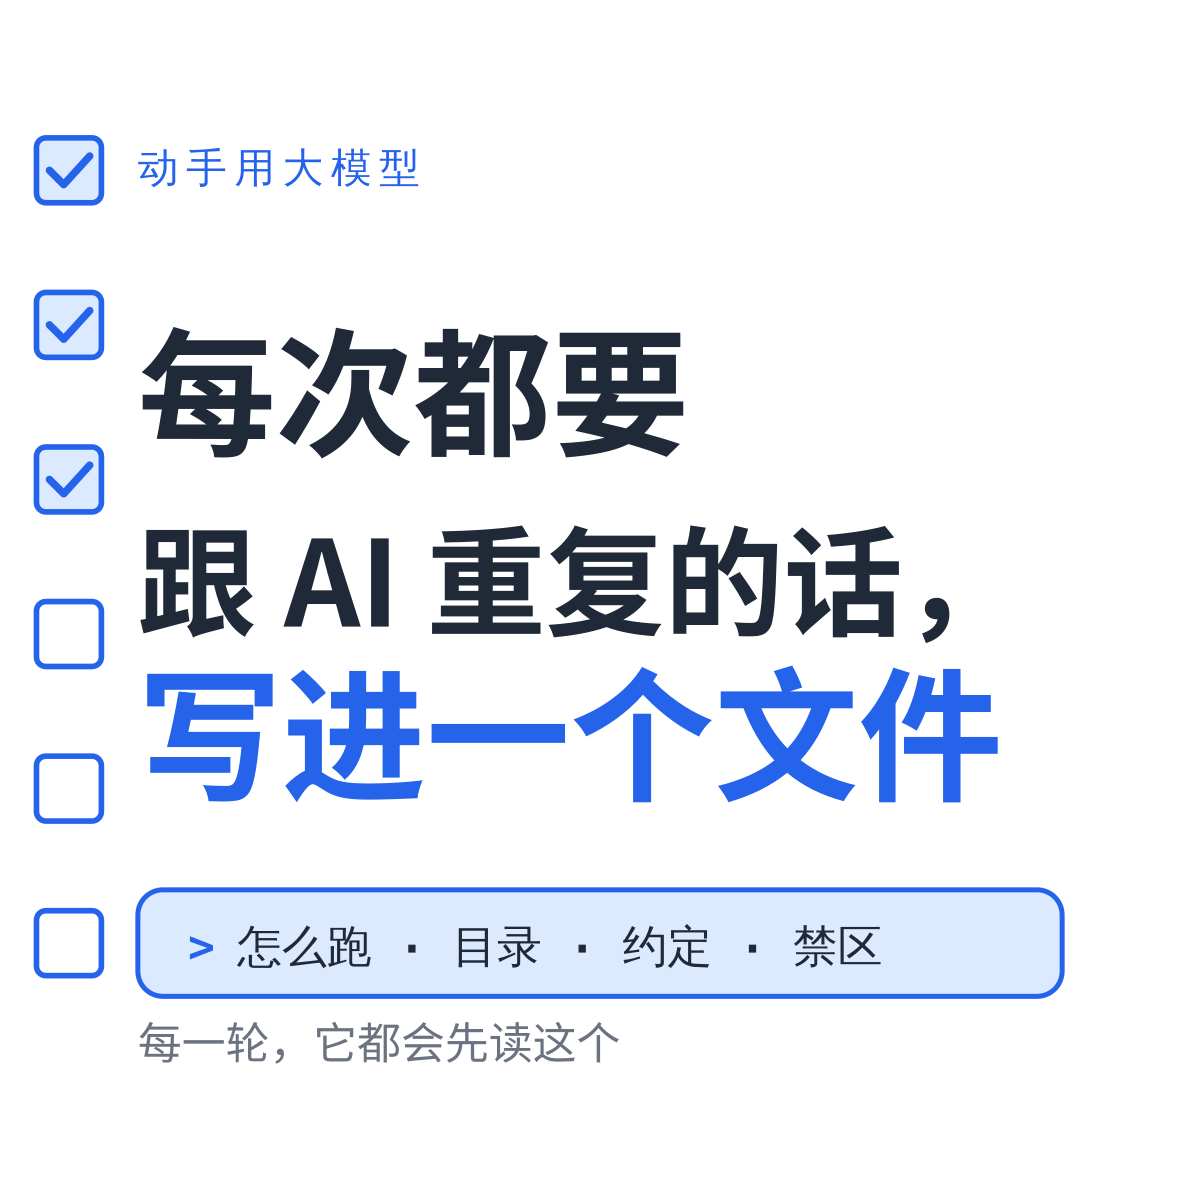
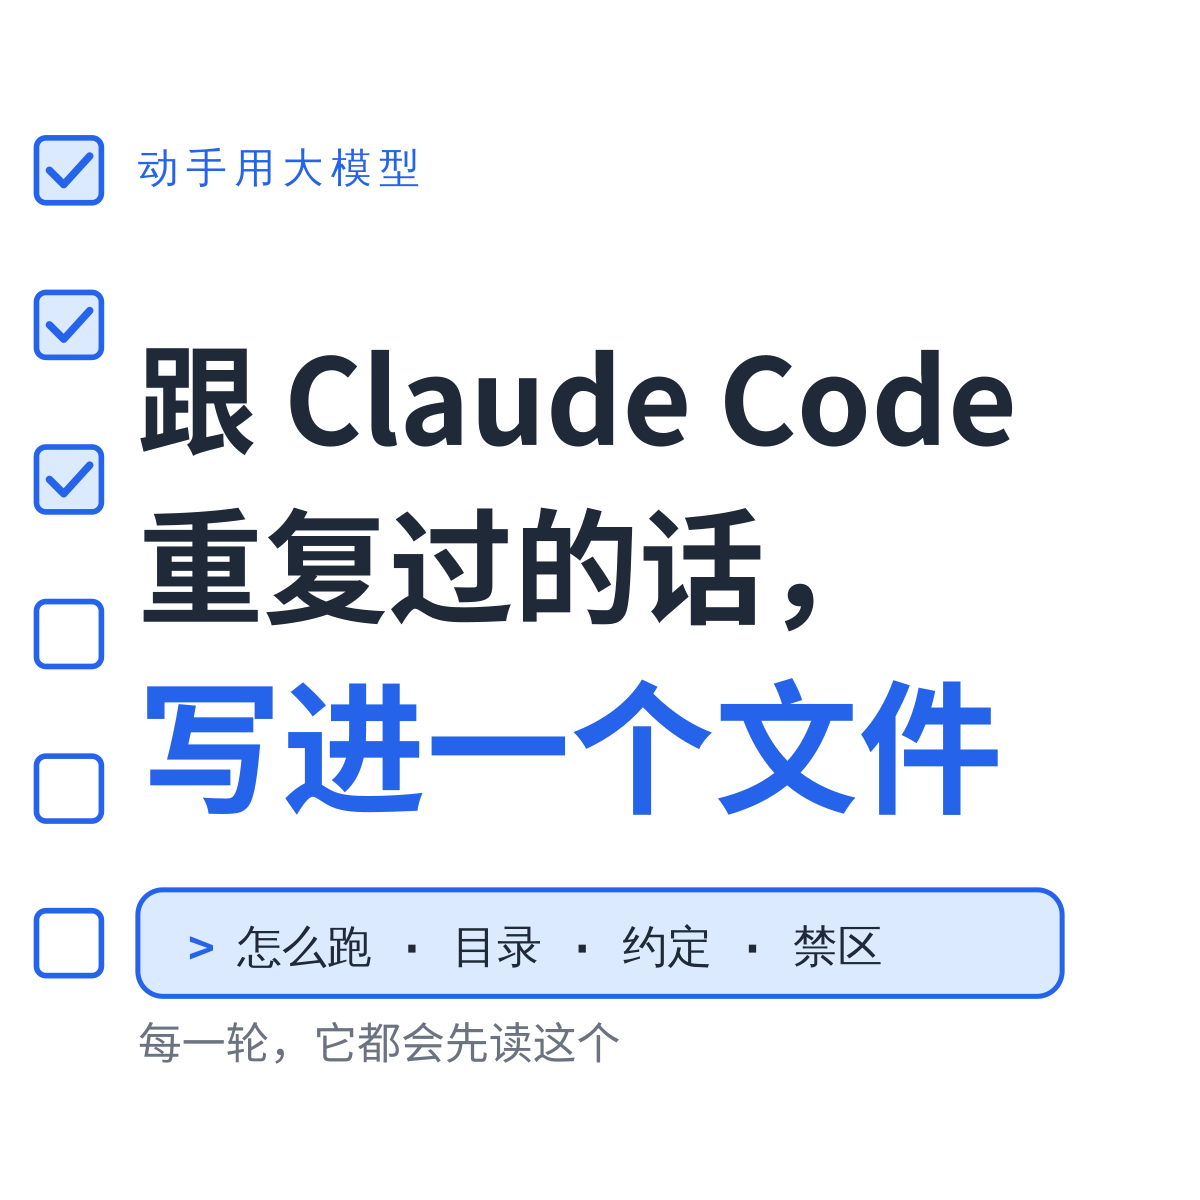
wechat: 实操第 2 篇标题点名 Claude Code；封面行距按相邻两行取大
Claude-Session: https://claude.ai/code/session_019pKXAKmxsG6RMQmoQfiDeX

Changed region(s): [[0.0925, 0.2775, 0.8633, 0.6783], [0.5242, 0.6475, 0.555, 0.6783]]

diff --git a/wechat/crosslink-h2.html b/wechat/crosslink-h2.html
@@ -1,1 +1,1 @@
-<!doctype html><html lang="zh-CN"><head><meta charset="utf-8"><title>接一课 · 实操第 2 篇</title></head><body style="margin:0;background:#eef0f4;font-family:-apple-system,BlinkMacSystemFont,'PingFang SC','Microsoft YaHei',sans-serif;"><div style="max-width:720px;margin:0 auto;padding:24px 16px;"><div style="background:#fff;border:1px solid #d6d9e0;border-radius:10px;padding:20px 22px;margin-bottom:16px;font-size:14px;line-height:1.9;color:#3f3f46;">粘到新闻正文最后、页脚之前。粘完选中课程标题那行，用编辑器「插入链接 → 公众号文章」链到对应文章。<br><button onclick="cp()" style="margin-top:12px;font-size:14px;font-weight:600;padding:8px 16px;cursor:pointer;border:0;background:#2563eb;color:#fff;border-radius:6px;">复制</button><span id="ok" style="margin-left:10px;font-size:13px;color:#15803d;"></span></div><div style="background:#fff;border:1px solid #d6d9e0;border-radius:10px;padding:20px 22px;"><div id="a"><section style="margin:32px 0 0;padding:16px 18px;background:#f6f7f9;border-left:4px solid #2563eb;border-radius:0 8px 8px 0;"><p style="margin:0 0 6px;font-size:15px;font-weight:700;color:#1b1f27;line-height:1.7;">每次都要重复的话，怎么让它记住？</p><p style="margin:0;font-size:14px;color:#3f3f46;line-height:1.8;">实操第 2 篇讲过：<span style="color:#2563eb;font-weight:600;">每次都要跟 AI 重复的话，写进一个文件</span><span style="color:#6a7280;">　→ 合集「动手用大模型」</span></p></section></div></div></div><script>function cp(){var r=document.createRange();r.selectNodeContents(document.getElementById("a"));var s=window.getSelection();s.removeAllRanges();s.addRange(r);document.execCommand("copy");s.removeAllRanges();document.getElementById("ok").textContent="已复制";}</script></body></html>
+<!doctype html><html lang="zh-CN"><head><meta charset="utf-8"><title>接一课 · 实操第 2 篇</title></head><body style="margin:0;background:#eef0f4;font-family:-apple-system,BlinkMacSystemFont,'PingFang SC','Microsoft YaHei',sans-serif;"><div style="max-width:720px;margin:0 auto;padding:24px 16px;"><div style="background:#fff;border:1px solid #d6d9e0;border-radius:10px;padding:20px 22px;margin-bottom:16px;font-size:14px;line-height:1.9;color:#3f3f46;">粘到新闻正文最后、页脚之前。粘完选中课程标题那行，用编辑器「插入链接 → 公众号文章」链到对应文章。<br><button onclick="cp()" style="margin-top:12px;font-size:14px;font-weight:600;padding:8px 16px;cursor:pointer;border:0;background:#2563eb;color:#fff;border-radius:6px;">复制</button><span id="ok" style="margin-left:10px;font-size:13px;color:#15803d;"></span></div><div style="background:#fff;border:1px solid #d6d9e0;border-radius:10px;padding:20px 22px;"><div id="a"><section style="margin:32px 0 0;padding:16px 18px;background:#f6f7f9;border-left:4px solid #2563eb;border-radius:0 8px 8px 0;"><p style="margin:0 0 6px;font-size:15px;font-weight:700;color:#1b1f27;line-height:1.7;">每次都要重复的话，怎么让它记住？</p><p style="margin:0;font-size:14px;color:#3f3f46;line-height:1.8;">实操第 2 篇讲过：<span style="color:#2563eb;font-weight:600;">每次都要跟 Claude Code 重复的话，写进一个文件</span><span style="color:#6a7280;">　→ 合集「动手用大模型」</span></p></section></div></div></div><script>function cp(){var r=document.createRange();r.selectNodeContents(document.getElementById("a"));var s=window.getSelection();s.removeAllRanges();s.addRange(r);document.execCommand("copy");s.removeAllRanges();document.getElementById("ok").textContent="已复制";}</script></body></html>

diff --git a/wechat/h05-write-it-in-a-file.paste.html b/wechat/h05-write-it-in-a-file.paste.html
@@ -1,13 +1,13 @@
 <!doctype html><html lang="zh-CN"><head><meta charset="utf-8">
 <meta name="viewport" content="width=device-width,initial-scale=1">
-<title>每次都要跟 AI 重复的话，写进一个文件 · 粘贴到公众号</title></head>
+<title>每次都要跟 Claude Code 重复的话，写进一个文件 · 粘贴到公众号</title></head>
 <body style="margin:0;background:#eef0f4;font-family:-apple-system,BlinkMacSystemFont,'PingFang SC','Microsoft YaHei',sans-serif;">
 <div style="max-width:720px;margin:0 auto;padding:24px 16px 60px;">
 
   <div style="background:#fff;border:1px solid #d6d9e0;border-radius:10px;padding:20px 22px;margin-bottom:20px;">
     <div style="font-size:12px;letter-spacing:.1em;color:#8a9099;margin-bottom:12px;">粘贴到公众号编辑器</div>
     <div style="font-size:14px;line-height:1.9;color:#3f3f46;">
-      <b>1.</b> 标题栏填：<span id="t" style="background:#f6f7f9;padding:2px 7px;border-radius:4px;">每次都要跟 AI 重复的话，写进一个文件</span>
+      <b>1.</b> 标题栏填：<span id="t" style="background:#f6f7f9;padding:2px 7px;border-radius:4px;">每次都要跟 Claude Code 重复的话，写进一个文件</span>
       <button onclick="cp(document.getElementById('t'))" style="margin-left:6px;font-size:12px;padding:3px 9px;cursor:pointer;border:1px solid #b6bcc6;background:#fff;border-radius:5px;">复制标题</button><br>
       <b>2.</b> 点下面的按钮复制正文，到编辑器里 Ctrl/Cmd+V<br>
       <b>3.</b> 正文里的虚线框是图片位，删掉框、用编辑器的"图片"按钮上传对应 PNG<br>

diff --git a/wechat/build-cover.py b/wechat/build-cover.py
@@ -87,8 +87,8 @@ HANDS = {
     },
     5: {
         'slug':  'hx5',
-        'wide':  [('每次都要跟 AI 重复的话，', INK, 46), ('|写进一个文件|', ACC, 60)],
-        'square': [('每次都要', INK, 44), ('跟 AI 重复的话，', INK, 38), ('写进一个文件', ACC, 46)],
+        'wide':  [('每次都要跟 Claude Code 重复的话，', INK, 42), ('|写进一个文件|', ACC, 60)],
+        'square': [('跟 Claude Code', INK, 38), ('重复过的话，', INK, 40), ('写进一个文件', ACC, 46)],
         'motif': ('cmd', '怎么跑 · 目录 · 约定 · 禁区', None),
         'caption': '每一轮，它都会先读这个',
     },
@@ -172,9 +172,10 @@ def build(n, series='main'):
     p.append('<text x="76" y="92" font-family="%s" font-size="17" font-weight="600" letter-spacing="3.2" '
              'fill="%s">%s</text>' % (MONO, accent, eyebrow))
     y = 186
-    for (s, fill, size) in L['wide']:
+    W_ = L['wide']
+    for i, (s, fill, size) in enumerate(W_):
         p.append(line(76, y, s, fill, size, accent))
-        y += size + 14
+        y += max(size, W_[i + 1][2] if i + 1 < len(W_) else 0) + 14   # 行距按相邻两行里大的那个算
     if kind == 'tiles':
         p += motif(kind, data, hi, 76, 296, 32, 36, 0)
         cx = 76 + 10 * 36 + 14
@@ -197,9 +198,10 @@ def build(n, series='main'):
     q.append('<text x="44" y="58" font-family="%s" font-size="13" font-weight="600" letter-spacing="2.4" '
              'fill="%s">%s</text>' % (MONO, accent, eyebrow))
     y = 142
-    for (s, fill, size) in L['square']:
+    Q_ = L['square']
+    for i, (s, fill, size) in enumerate(Q_):
         q.append(line(44, y, s, fill, size, accent))
-        y += size + 14
+        y += max(size, Q_[i + 1][2] if i + 1 < len(Q_) else 0) + 14
     if kind == 'tiles':
         q += motif(kind, data, hi, 44, 288, 27, 30, 0)
     else:

diff --git a/wechat/build-crosslink.py b/wechat/build-crosslink.py
@@ -24,7 +24,7 @@ MAIN = {
 }
 HANDS = {
     1: ('想让它听懂，该怎么说？', '跟 AI 说话，为什么不能像跟人说话'),
-    2: ('每次都要重复的话，怎么让它记住？', '每次都要跟 AI 重复的话，写进一个文件'),   # 文件 h05，发布第 2 篇
+    2: ('每次都要重复的话，怎么让它记住？', '每次都要跟 Claude Code 重复的话，写进一个文件'),   # 文件 h05，发布第 2 篇
 }
 
 BOX = ('margin:32px 0 0;padding:16px 18px;background:#f6f7f9;border-left:4px solid %s;'

diff --git a/wechat/PLAN-hands-on.md b/wechat/PLAN-hands-on.md
@@ -31,7 +31,7 @@
 | 发布 | 文件 | 标题 | 层 | 你学会 | 挂主线 | 状态 |
 |---|---|---|---|---|---|---|
 | 1 | `h01` | 跟 AI 说话，为什么不能像跟人说话 | 对话 | 它每轮从头读、读完就忘、窗口有限 → 别让它猜、要求放头尾、每个字都占地方。例子：同一条"帮我改一下"改写三次 | 第 5 课 | 已发 |
-| 2 | `h05` | 每次都要跟 AI 重复的话，写进一个文件 | 规则 | 规则文件是什么、什么时候被读、只写四类、个人偏好分开放 | 第 5 课、仓库 12 | 已出稿 |
+| 2 | `h05` | 每次都要跟 Claude Code 重复的话，写进一个文件 | 规则 | 规则文件是什么、什么时候被读、只写四类、个人偏好分开放 | 第 5 课、仓库 12 | 已出稿 |
 | 3 | `h02` | 让 AI 一次做对：一条要求的四个部件 | 对话 | 任务、材料、格式、例子；要求放头尾材料放中间。例子：一句话"写个周报"扩成四部件版 | 第 3、5 课 | |
 | 4 | `h03` | AI 的深度思考按钮，什么时候该开 | 对话 | 多步推理、算数、找错要开；闲聊、翻译、改文案别开。例子：同一道题开关各跑一次 | 第 8 课 | |
 | 5 | `h04` | AI 一本正经地编，三招治它 | 对话 | 给材料、要它标出处、允许它说不知道；哪些问题天生不该问它。例子：问一本不存在的书 | 第 4 课 | |

diff --git a/wechat/CROSSLINK.md b/wechat/CROSSLINK.md
@@ -38,7 +38,7 @@
 | 同一模型不同产品表现不同、Harness、Claude Code / Cursor 对比 | 同一个模型，为什么有的助手更好用？ | 第 14 课 | 待写 |
 | 参数量、MoE、小模型追平大模型、scaling | 模型越大越聪明吗？ | 第 15 课 | 待写 |
 | 提示词技巧、"AI 听不懂人话"、prompt | 想让它听懂，该怎么说？ | 实操第 1 篇 跟 AI 说话，为什么不能像跟人说话 | 已发 |
-| CLAUDE.md / AGENTS.md / 规则文件、"AI 编程助手不听话" | 每次都要重复的话，怎么让它记住？ | 实操第 2 篇 每次都要跟 AI 重复的话，写进一个文件 | 已出稿 |
+| CLAUDE.md / AGENTS.md / 规则文件、"AI 编程助手不听话" | 每次都要重复的话，怎么让它记住？ | 实操第 2 篇 每次都要跟 Claude Code 重复的话，写进一个文件 | 已出稿 |
 
 待写的课在写之前，可以先挂最近的已发课：Agent / 记忆 / RAG → 第 5 课，成本 → 第 6 课。
 

diff --git a/wechat/HANDOFF-for-news-session.md b/wechat/HANDOFF-for-news-session.md
@@ -33,6 +33,6 @@
 | 篇 | 标题 | 讲什么 | 新闻里出现什么时挂 | 引子 |
 |---|---|---|---|---|
 | 1 | 跟 AI 说话，为什么不能像跟人说话 | 三条写法 + 模板 | 提示词技巧、"AI 听不懂人话" | 想让它听懂，该怎么说？ |
-| 2 | 每次都要跟 AI 重复的话，写进一个文件 | CLAUDE.md / AGENTS.md 规则文件 + 模板 | CLAUDE.md、AGENTS.md、Cursor rules、编程助手不听话、Claude Code / Codex 用法 | 每次都要重复的话，怎么让它记住？ |
+| 2 | 每次都要跟 Claude Code 重复的话，写进一个文件 | CLAUDE.md / AGENTS.md 规则文件 + 模板 | CLAUDE.md、AGENTS.md、Cursor rules、编程助手不听话、Claude Code / Codex 用法 | 每次都要重复的话，怎么让它记住？ |
 
 实操篇的出处行写"实操第 N 篇讲过：……→ 合集「动手用大模型」"。

diff --git a/wechat/h05-write-it-in-a-file.md b/wechat/h05-write-it-in-a-file.md
@@ -1,4 +1,4 @@
-# 每次都要跟 AI 重复的话，写进一个文件
+# 每次都要跟 Claude Code 重复的话，写进一个文件
 
 > 合集二「动手用大模型」规划位第 5 篇（规则层第一篇），发布顺序第 2 篇，摘要按发布顺序编号。以 Claude Code 为例，Cursor / Codex 同理。原理挂主线第 5 课，写法来自仓库 12 篇。约 1000 字。生成 HTML 用 `--blue`。
 
